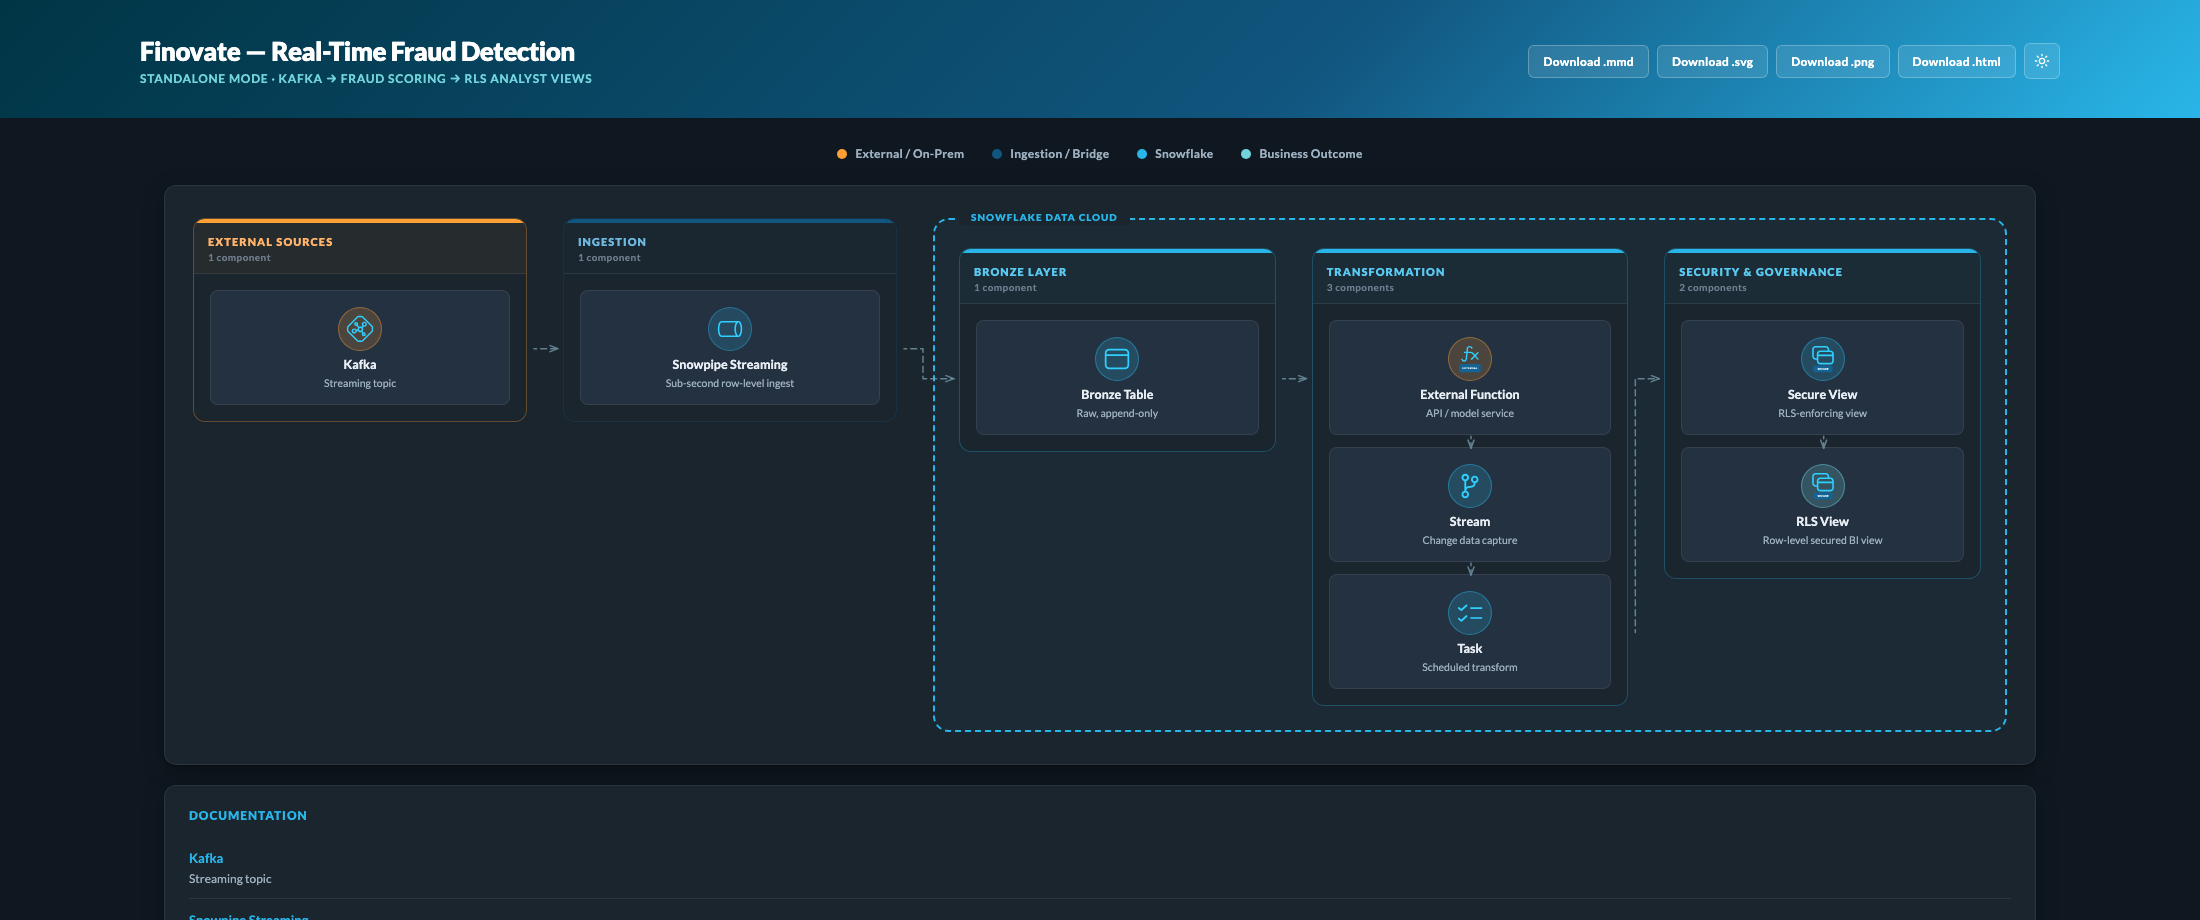
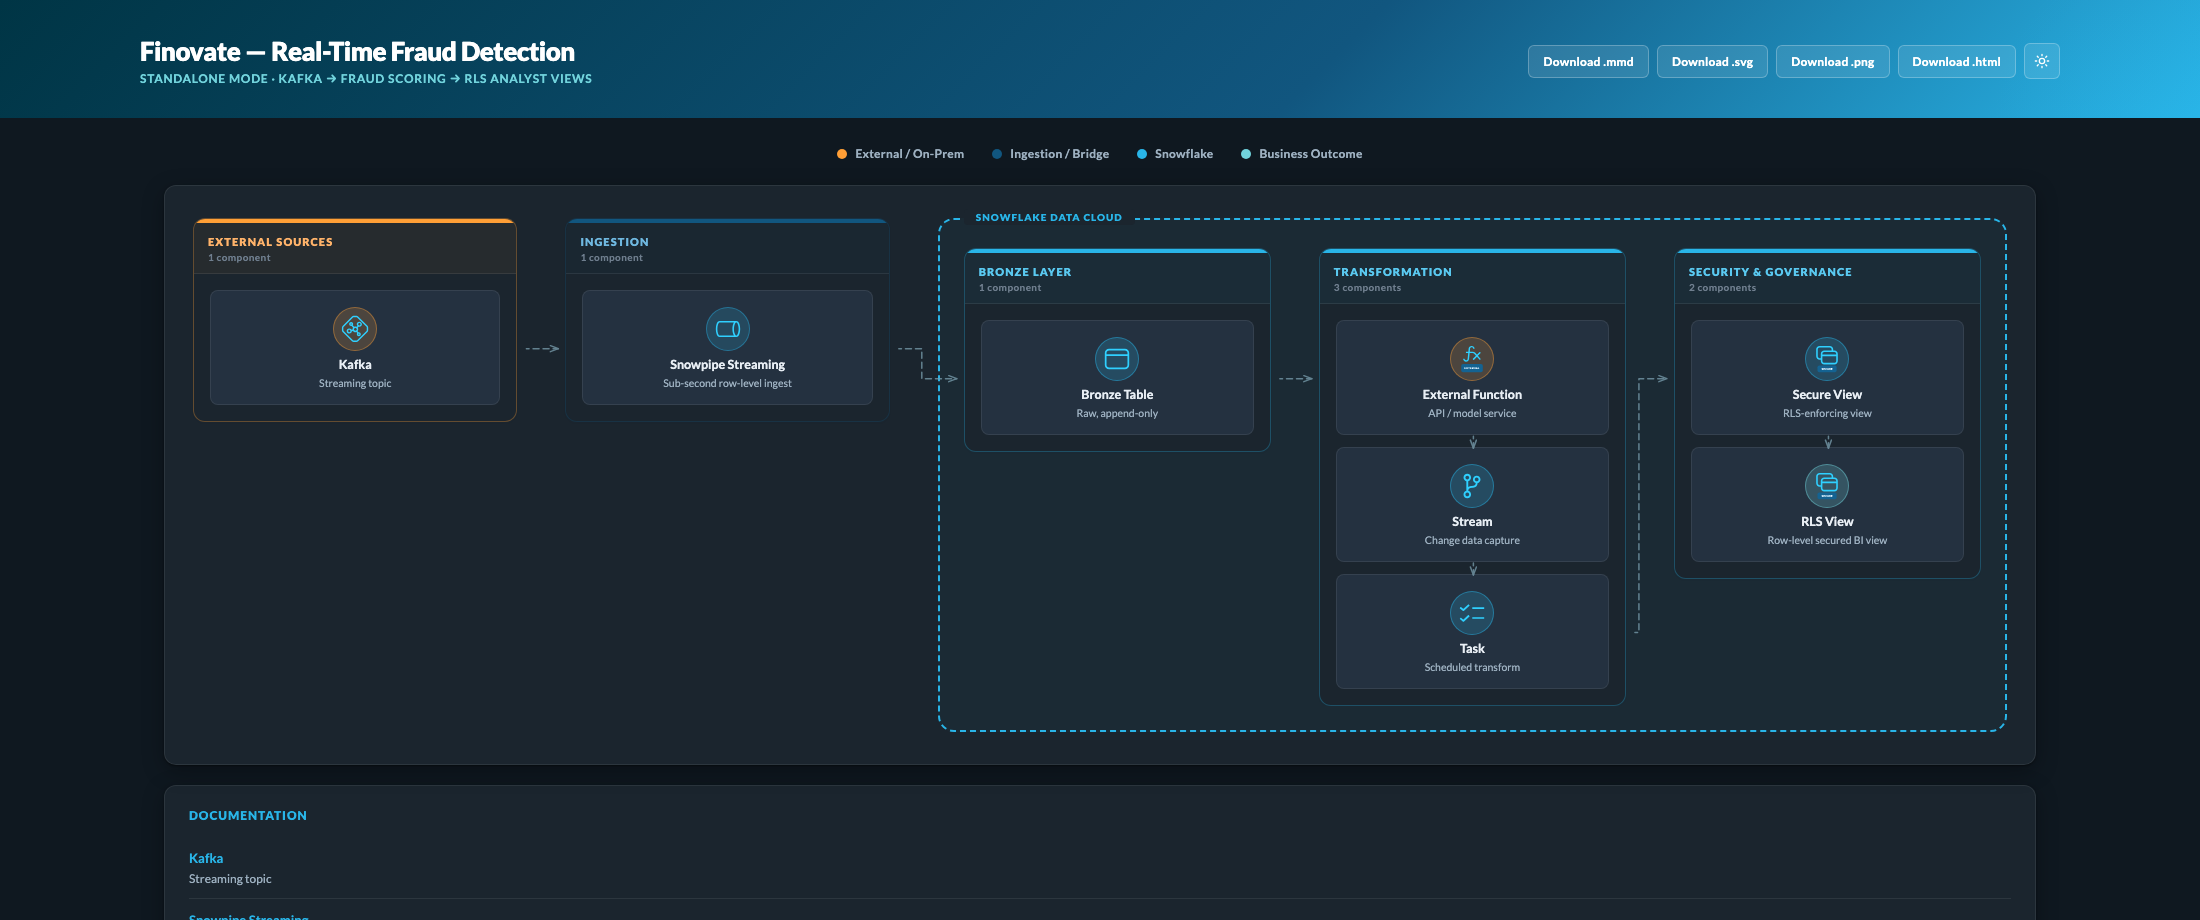
style(skills): increase inter-zone gap to 48px for cleaner connectors
Bump both outer grid gap and inner platform boundary grid gap to 48px
(from 36px). Increase edgeMargin to 8px. Gives connectors a wider
routing channel between layers so arrows have clear directionality.

diff --git a/skills/snowflake-architecture-diagram/assets/viewer/index.html b/skills/snowflake-architecture-diagram/assets/viewer/index.html
@@ -247,7 +247,7 @@
   /* ────────────────────────── Topology-driven multi-column layout ────────────────────────── */
   .arch-layout {
     display: grid;
-    gap: 36px;
+    gap: 48px;
     align-items: start;
     position: relative;
   }
@@ -819,7 +819,7 @@
           var innerGrid = document.createElement('div');
           innerGrid.style.display = 'grid';
           innerGrid.style.gridTemplateColumns = 'repeat(' + (snowEnd - snowStart + 1) + ', minmax(0, 1fr))';
-          innerGrid.style.gap = '36px';
+          innerGrid.style.gap = '48px';
           innerGrid.style.alignItems = 'start';
           innerGrid.style.overflow = 'hidden';
 
@@ -928,7 +928,7 @@
         var useHorizontal = horizontalGap || (!verticalGap && Math.abs(tgtZoneCx - srcZoneCx) > 20);
 
         // Margin to prevent lines from hugging zone borders
-        var edgeMargin = 6;
+        var edgeMargin = 8;
 
         if (useHorizontal) {
           var dx = tgtZoneCx - srcZoneCx;

diff --git a/skills/snowflake-architecture-diagram/test_outputs/personas/maya_v5.html b/skills/snowflake-architecture-diagram/test_outputs/personas/maya_v5.html
@@ -247,7 +247,7 @@
   /* ────────────────────────── Topology-driven multi-column layout ────────────────────────── */
   .arch-layout {
     display: grid;
-    gap: 36px;
+    gap: 48px;
     align-items: start;
     position: relative;
   }
@@ -2850,7 +2850,7 @@ Expecting `+Qe.join(", ")+", got '"+(this.terminals_[Ne]||Ne)+"'":Dt="Parse erro
           var innerGrid = document.createElement('div');
           innerGrid.style.display = 'grid';
           innerGrid.style.gridTemplateColumns = 'repeat(' + (snowEnd - snowStart + 1) + ', minmax(0, 1fr))';
-          innerGrid.style.gap = '36px';
+          innerGrid.style.gap = '48px';
           innerGrid.style.alignItems = 'start';
           innerGrid.style.overflow = 'hidden';
 
@@ -2959,7 +2959,7 @@ Expecting `+Qe.join(", ")+", got '"+(this.terminals_[Ne]||Ne)+"'":Dt="Parse erro
         var useHorizontal = horizontalGap || (!verticalGap && Math.abs(tgtZoneCx - srcZoneCx) > 20);
 
         // Margin to prevent lines from hugging zone borders
-        var edgeMargin = 6;
+        var edgeMargin = 8;
 
         if (useHorizontal) {
           var dx = tgtZoneCx - srcZoneCx;

diff --git a/skills/snowflake-architecture-diagram/test_outputs/personas/raj_v5.html b/skills/snowflake-architecture-diagram/test_outputs/personas/raj_v5.html
@@ -247,7 +247,7 @@
   /* ────────────────────────── Topology-driven multi-column layout ────────────────────────── */
   .arch-layout {
     display: grid;
-    gap: 36px;
+    gap: 48px;
     align-items: start;
     position: relative;
   }
@@ -2850,7 +2850,7 @@ Expecting `+Qe.join(", ")+", got '"+(this.terminals_[Ne]||Ne)+"'":Dt="Parse erro
           var innerGrid = document.createElement('div');
           innerGrid.style.display = 'grid';
           innerGrid.style.gridTemplateColumns = 'repeat(' + (snowEnd - snowStart + 1) + ', minmax(0, 1fr))';
-          innerGrid.style.gap = '36px';
+          innerGrid.style.gap = '48px';
           innerGrid.style.alignItems = 'start';
           innerGrid.style.overflow = 'hidden';
 
@@ -2959,7 +2959,7 @@ Expecting `+Qe.join(", ")+", got '"+(this.terminals_[Ne]||Ne)+"'":Dt="Parse erro
         var useHorizontal = horizontalGap || (!verticalGap && Math.abs(tgtZoneCx - srcZoneCx) > 20);
 
         // Margin to prevent lines from hugging zone borders
-        var edgeMargin = 6;
+        var edgeMargin = 8;
 
         if (useHorizontal) {
           var dx = tgtZoneCx - srcZoneCx;

diff --git a/skills/snowflake-architecture-diagram/test_outputs/personas/sarah_v5.html b/skills/snowflake-architecture-diagram/test_outputs/personas/sarah_v5.html
@@ -247,7 +247,7 @@
   /* ────────────────────────── Topology-driven multi-column layout ────────────────────────── */
   .arch-layout {
     display: grid;
-    gap: 36px;
+    gap: 48px;
     align-items: start;
     position: relative;
   }
@@ -2850,7 +2850,7 @@ Expecting `+Qe.join(", ")+", got '"+(this.terminals_[Ne]||Ne)+"'":Dt="Parse erro
           var innerGrid = document.createElement('div');
           innerGrid.style.display = 'grid';
           innerGrid.style.gridTemplateColumns = 'repeat(' + (snowEnd - snowStart + 1) + ', minmax(0, 1fr))';
-          innerGrid.style.gap = '36px';
+          innerGrid.style.gap = '48px';
           innerGrid.style.alignItems = 'start';
           innerGrid.style.overflow = 'hidden';
 
@@ -2959,7 +2959,7 @@ Expecting `+Qe.join(", ")+", got '"+(this.terminals_[Ne]||Ne)+"'":Dt="Parse erro
         var useHorizontal = horizontalGap || (!verticalGap && Math.abs(tgtZoneCx - srcZoneCx) > 20);
 
         // Margin to prevent lines from hugging zone borders
-        var edgeMargin = 6;
+        var edgeMargin = 8;
 
         if (useHorizontal) {
           var dx = tgtZoneCx - srcZoneCx;